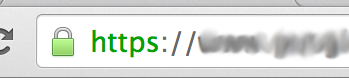
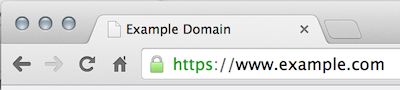
add images

diff --git a/extension/surveys/common-questions.js b/extension/surveys/common-questions.js
@@ -348,10 +348,10 @@ commonQuestions.createClarificationQuestion = function() {
  * Did you notice the symbol on the left?
  * @returns {object} The DOM subtree with the question.
  */
-commonQuestions.createNoticeSymbolQuestion = function() {
+commonQuestions.createHttpNoticeSymbolQuestion = function() {
   var symbol = new FixedQuestion(
       constants.QuestionType.RADIO,
-      'Have you ever noticed the symbol on the left of the screenshot?',
+      'Have you ever noticed a white symbol next to the URL before?',
       true,
       ['Yes', 'No', 'I\'m not sure', constants.NO_ANSWER],
       constants.Randomize.ANCHOR_LAST);
@@ -361,14 +361,44 @@ commonQuestions.createNoticeSymbolQuestion = function() {
 };
 
 /**
+ * Did you notice the symbol on the left?
+ * @returns {object} The DOM subtree with the question.
+ */
+commonQuestions.createHttpsNoticeSymbolQuestion = function() {
+  var symbol = new FixedQuestion(
+      constants.QuestionType.RADIO,
+      'Have you ever noticed a green symbol next to the URL before?',
+      true,
+      ['Yes', 'No', 'I\'m not sure', constants.NO_ANSWER],
+      constants.Randomize.ANCHOR_LAST);
+  symbol.setPlaceholder('Have you ever noticed the symbol on the left of the ' +
+      'screenshot?');
+  return symbol;
+};
+
+
+/**
  * What does the symbol mean?
  * @returns {object} The DOM subtree with the question.
  */
-commonQuestions.createSymbolMeaningQuestion = function() {
+commonQuestions.createHttpSymbolMeaningQuestion = function() {
   var symbol = new EssayQuestion(
       constants.QuestionType.SHORT_ESSAY,
-      'What does the symbol make you think of?',
-      true);
+      'What does the white symbol next to the URL make you think of?',
+      false);
+  symbol.setPlaceholder('What does the symbol make you think of?');
+  return symbol;
+};
+
+/**
+ * What does the symbol mean?
+ * @returns {object} The DOM subtree with the question.
+ */
+commonQuestions.createHttpsSymbolMeaningQuestion = function() {
+  var symbol = new EssayQuestion(
+      constants.QuestionType.SHORT_ESSAY,
+      'What does the green symbol next to the URL make you think of?',
+      false);
   symbol.setPlaceholder('What does the symbol make you think of?');
   return symbol;
 };
@@ -380,9 +410,10 @@ commonQuestions.createSymbolMeaningQuestion = function() {
 commonQuestions.createDifferenceQuestion = function() {
   var difference = new EssayQuestion(
       constants.QuestionType.SHORT_ESSAY,
-      'Would you expect a difference between ' + surveyDriver.questionUrl +
-          ' and ' + surveyDriver.questionUrl + '?',
-      true);
+      'Would you expect a difference between http://' +
+          surveyDriver.questionUrl + ' and https://' +
+          surveyDriver.questionUrl + '?',
+      false);
   difference.setPlaceholder('What does the symbol make you think of?');
   return difference;
 };

diff --git a/extension/surveys/visited-https.js b/extension/surveys/visited-https.js
@@ -7,8 +7,8 @@
  * @param {object} parentNode The DOM node to attach the surveys to.
  */
 function addQuestions(parentNode) {
-  addQuestion(parentNode, commonQuestions.createNoticeSymbolQuestion());
-  addQuestion(parentNode, commonQuestions.createSymbolMeaningQuestion());
+  addQuestion(parentNode, commonQuestions.createHttpsNoticeSymbolQuestion());
+  addQuestion(parentNode, commonQuestions.createHttpsSymbolMeaningQuestion());
   addQuestion(parentNode, commonQuestions.createDifferenceQuestion());
 }
 
@@ -28,4 +28,12 @@ function setScreenshot() {
     default:
       $('example-img').src = 'screenshots/https-win.png';
   }
+  $('example-img').style.width = 'auto';
+  $('example-img').style.height = 'auto';
+
+  // For HTTP/HTTPS, we also want to update the caption.
+  $('saw-a-page').textContent =
+      'You just now saw a URL bar, like the one shown above.';
+  $('following-questions').textContent =
+      'The following questions are about the URL bar.';
 }

diff --git a/extension/surveys/visited-http.js b/extension/surveys/visited-http.js
@@ -7,8 +7,8 @@
  * @param {object} parentNode The DOM node to attach the surveys to.
  */
 function addQuestions(parentNode) {
-  addQuestion(parentNode, commonQuestions.createNoticeSymbolQuestion());
-  addQuestion(parentNode, commonQuestions.createSymbolMeaningQuestion());
+  addQuestion(parentNode, commonQuestions.createHttpNoticeSymbolQuestion());
+  addQuestion(parentNode, commonQuestions.createHttpSymbolMeaningQuestion());
   addQuestion(parentNode, commonQuestions.createDifferenceQuestion());
 }
 
@@ -28,4 +28,12 @@ function setScreenshot() {
     default:
       $('example-img').src = 'screenshots/http-win.png';
   }
+  $('example-img').style.width = 'auto';
+  $('example-img').style.height = 'auto';
+
+  // For HTTP/HTTPS, we also want to update the caption.
+  $('saw-a-page').textContent =
+      'You just now saw a URL bar, like the one shown above.';
+  $('following-questions').textContent =
+      'The following questions are about the URL bar.';
 }

diff --git a/extension/background.js b/extension/background.js
@@ -35,7 +35,7 @@ cesp.PARTICIPANT_ID_LOOKUP = 'participantId';
 cesp.LAST_NOTIFICATION_TIME = 'lastNotificationTime';
 cesp.MINIMUM_SURVEY_DELAY = 300000;  // 5 minutes in ms.
 cesp.FIRST_SURVEY_READY = 'firstSurveyReady';
-cesp.FIRST_SURVEY_DELAY_LENGTH = 40;  // minutes
+cesp.FIRST_SURVEY_DELAY_LENGTH = 1;//40;  // minutes
 
 // SETUP
 
